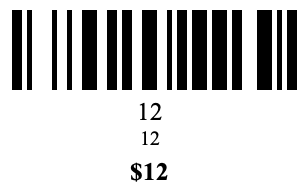
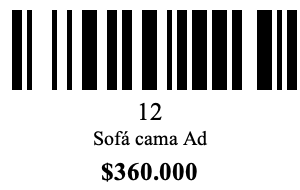
Parse code

Changed region(s): [[0.33, 0.8421, 0.66, 0.9737], [0.3, 0.6842, 0.69, 0.7632]]

diff --git a/src/main/java/com/rg/barcode/service/LabelService.java b/src/main/java/com/rg/barcode/service/LabelService.java
@@ -58,6 +58,7 @@ public class LabelService {
                 ArrayList<String> values = ((ArrayList<String>) entrySet.getValue());
                 Label label = new Label();
                 String code = values.get(1).trim().replace("\"","");
+                code = code.substring(0,code.length()-2);
                 Number price = NumberFormat.getInstance().parse(values.get(4));
                 label.setCode(code);
                 String description = values.get(3);
